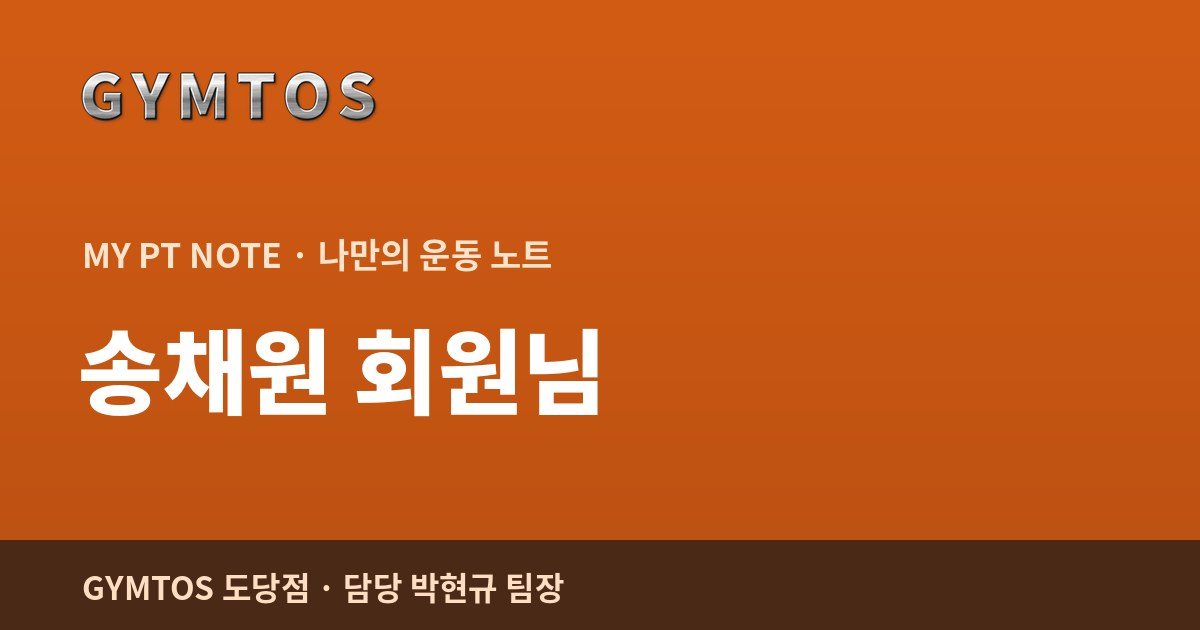
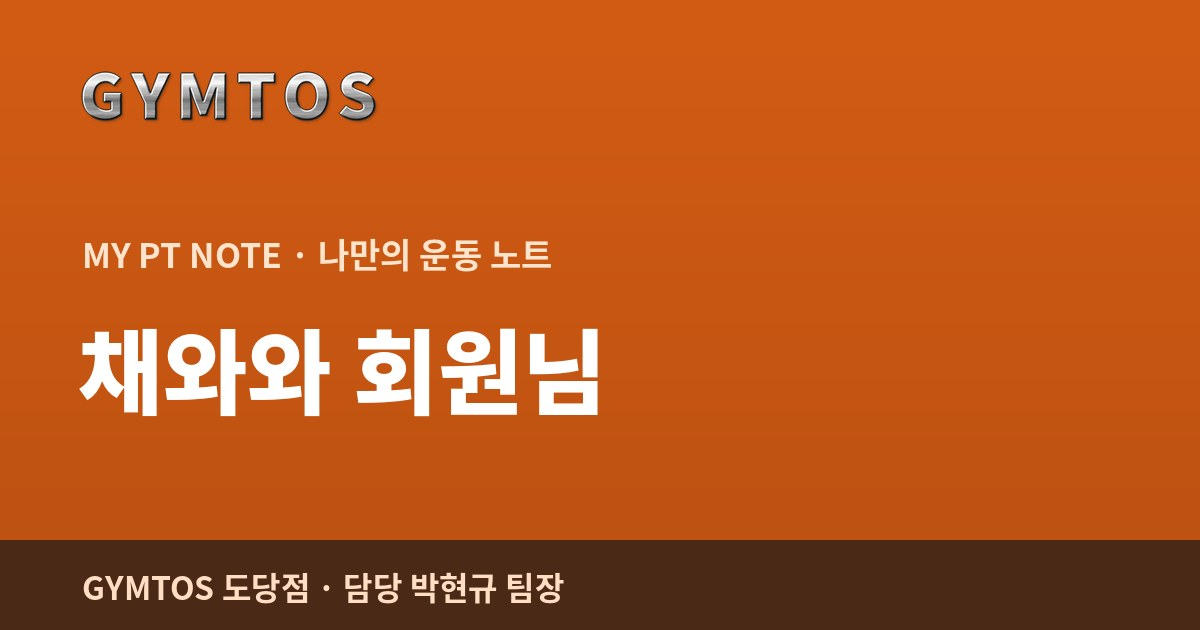
송채원 회원님 노트 이름을 채와와로
Claude-Session: https://claude.ai/code/session_01RdMHchgwqezTpV2LneVZW2

Changed region(s): [[0.0617, 0.5127, 0.2775, 0.6635]]

diff --git a/m/chaewon-ryfvmy/index.html b/m/chaewon-ryfvmy/index.html
@@ -3,12 +3,12 @@
 <head>
 <meta charset="utf-8">
 <meta name="viewport" content="width=device-width, initial-scale=1, viewport-fit=cover">
-<title>송채원 회원님 PT 노트 · GYMTOS 도당점</title>
+<title>채와와 회원님 PT 노트 · GYMTOS 도당점</title>
 <meta name="description" content="내 루틴, 자세 복습지, 식단, 선생님 공지를 한곳에서">
 <meta name="robots" content="noindex, nofollow">
 <meta name="theme-color" content="#D35C14">
 <meta property="og:type" content="website">
-<meta property="og:title" content="송채원 회원님 PT 노트 · GYMTOS 도당점">
+<meta property="og:title" content="채와와 회원님 PT 노트 · GYMTOS 도당점">
 <meta property="og:description" content="내 루틴, 자세 복습지, 식단, 선생님 공지를 한곳에서">
 <meta property="og:image" content="https://gusrb0259-png.github.io/m/chaewon-ryfvmy/og.jpg">
 <meta property="og:image:width" content="1200">
@@ -25,7 +25,7 @@
   <symbol id="i-check" viewBox="0 0 12 12"><path d="M2.4 6.3 5 8.7l4.6-5.2" fill="none" stroke="#fff" stroke-width="1.9" stroke-linecap="round" stroke-linejoin="round"/></symbol>
   <symbol id="i-x" viewBox="0 0 12 12"><path d="M3.3 3.3l5.4 5.4M8.7 3.3 3.3 8.7" fill="none" stroke="#fff" stroke-width="1.9" stroke-linecap="round"/></symbol>
 </svg>
-<header class="bar"><div class="bar-in"><a href="#home"><img src="../../assets/logo.png" alt="GYMTOS"></a><span>송채원 회원님 PT 노트</span></div></header>
+<header class="bar"><div class="bar-in"><a href="#home"><img src="../../assets/logo.png" alt="GYMTOS"></a><span>채와와 회원님 PT 노트</span></div></header>
 <main class="wrap"><div class="view" id="view" aria-live="polite"></div></main>
 <nav class="tabs" aria-label="메뉴"><div class="tabs-in">
   <a href="#home" data-tab="home"><svg viewBox="0 0 24 24" fill="none" stroke="currentColor" stroke-width="2" stroke-linejoin="round"><path d="M3.5 10.5 12 4l8.5 6.5V20a1 1 0 0 1-1 1H15v-6H9v6H4.5a1 1 0 0 1-1-1z"/></svg>홈</a>

diff --git a/m/chaewon-ryfvmy/data.js b/m/chaewon-ryfvmy/data.js
@@ -1,6 +1,6 @@
-/* 송채원 회원님 PT 노트 — 2026-11-12 만듦 */
+/* 채와와 회원님 PT 노트 — 2026-11-12 만듦 */
 window.MEMBER = {
-  "name": "송채원",
+  "name": "채와와",
   "sex": "F",
   "since": "2026. 2",
   "goal": "탄탄한 몸매 라인 · 힙업 · 체력",
@@ -35,7 +35,7 @@ window.MEMBER = {
     {
       "date": "2026. 11. 12",
       "title": "PT 노트가 열렸어요",
-      "body": "채원 회원님만의 운동 노트예요! 루틴·자세 복습지·식단이 여기에 차곡차곡 올라와요. 운동하러 오면 '오늘 출석'도 꼭 눌러 주세요."
+      "body": "채와와 회원님만의 운동 노트예요! 루틴·자세 복습지·식단이 여기에 차곡차곡 올라와요. 운동하러 오면 '오늘 출석'도 꼭 눌러 주세요."
     }
   ],
   "next_class": null,

diff --git a/CLAUDE.md b/CLAUDE.md
@@ -91,7 +91,7 @@ _tools/anatomy_v3.py  인체모형 v3 (자극 부위 그림). build(경로, 앞 
 | 이다혜 | m/dahye-dfpttw/ | F |
 | 홍지현 | m/jihyeon-d1xp2n/ | F |
 | 백옥규 | m/okgyu-s4os2w/ | M |
-| 송채원 | m/chaewon-ryfvmy/ | F |
+| 채와와 (본명 송채원) | m/chaewon-ryfvmy/ | F |
 
 ## 폰에서 새 회원 노트 만들기 (2026-11-12 트레이너 "클로드 말고 PT 노트 안에서 이름만 넣으면 자동으로")
 - 선생님 페이지 회원 목록 위 "＋ 새 회원 노트 만들기" → 이름·성별·PT 시작한 달·목표(선택) → 주소 `<이름 로마자>-<랜덤6>` 자동(성 빼고 이름만 로마자, coach index.html roman()) → 링크 복사·노트 열기.
